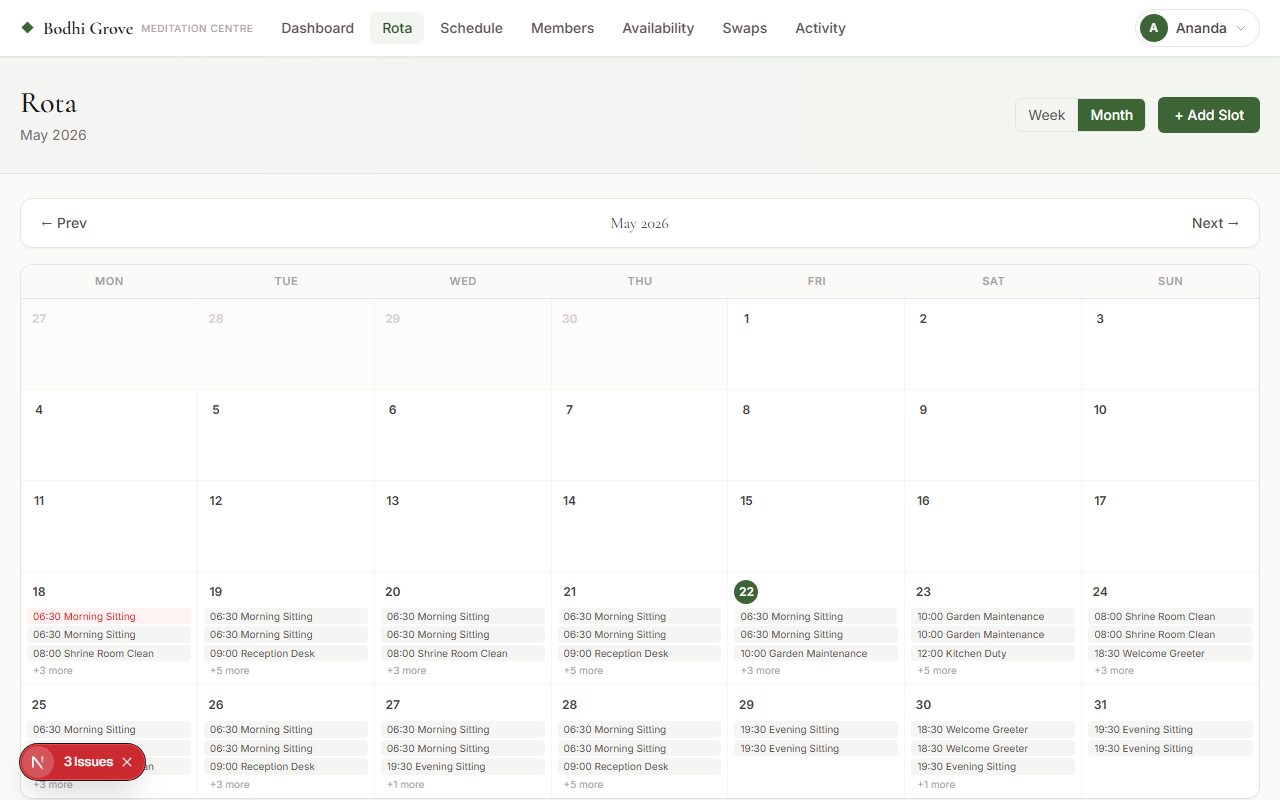
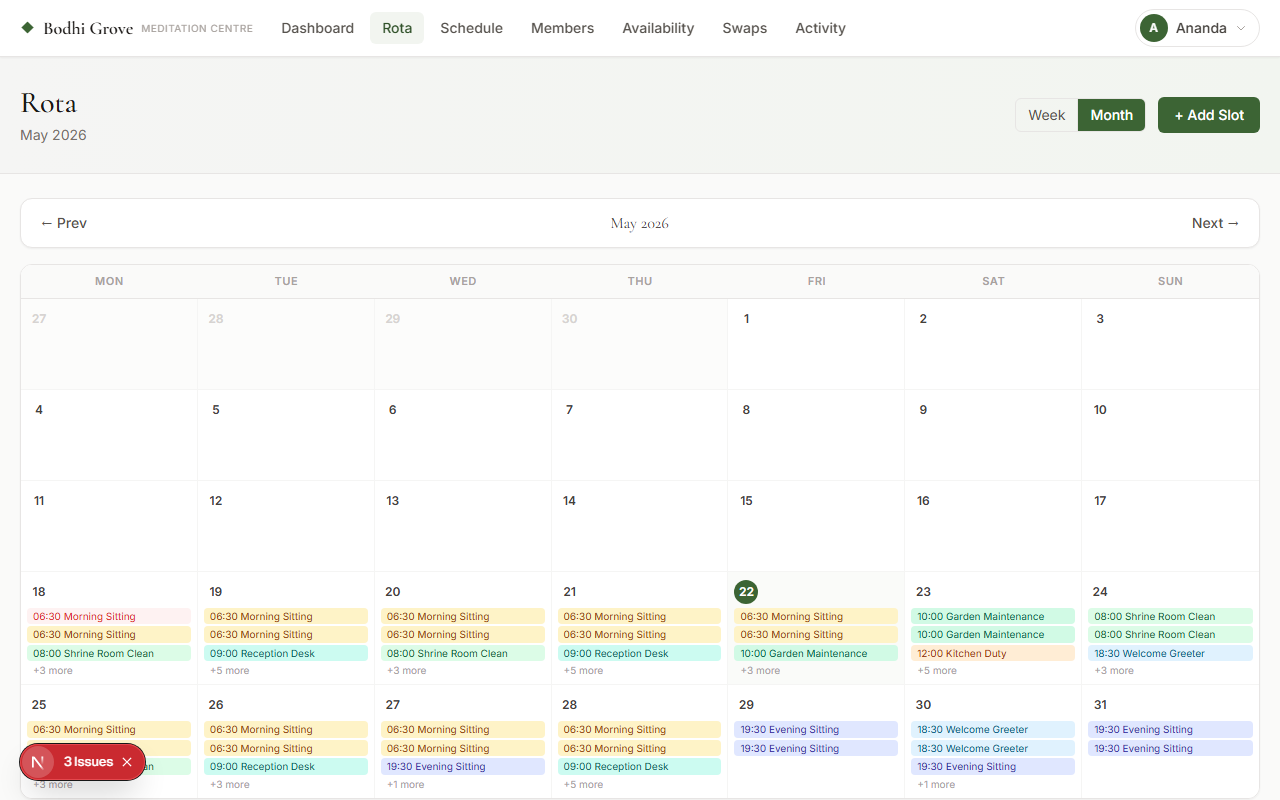
Better calendar UI and mobile improvements
Weekly rota:
- Colour-code slot cards by duty type via a 3px left-border accent
  (amber=Morning, indigo=Evening, teal=Reception, orange=Kitchen,
  green=Shrine Clean, emerald=Garden, sky=Welcome Greeter)
- Highlight the current day column header and background in sage
- Add a "Today" quick-nav link under the week label when browsing a
  past/future week
- Hide "Export .ics" label text on xs screens (icon still visible)

Monthly rota:
- Wrap the 7-column grid in overflow-x-auto with min-w-[560px] so the
  calendar scrolls horizontally on mobile rather than overflowing
- Apply same duty-type colour pills so colour coding is consistent
  across both views
- Highlight today's cell with a sage background tint
- Expand legend to show Morning/Evening colour swatches; hide click hint
  on xs screens

Shared:
- New src/lib/duty-colors.ts with dutyBorder() and dutyPill() helpers
  used by both the weekly grid and monthly calendar

diff --git a/src/app/(app)/rota/month/page.tsx b/src/app/(app)/rota/month/page.tsx
@@ -6,6 +6,7 @@ import {
   getMonthStart, addMonths, addDays,
   getWeekStart, fmtMonthYear, fmtTime,
 } from '@/lib/utils'
+import { dutyPill } from '@/lib/duty-colors'
 
 export const metadata: Metadata = { title: 'Rota – Month' }
 
@@ -110,83 +111,93 @@ export default async function MonthRotaPage({
           </Link>
         </div>
 
-        {/* Calendar */}
-        <div className="bg-white border border-stone-200 rounded-xl shadow-sm overflow-hidden">
-          {/* Day headers */}
-          <div className="grid grid-cols-7 border-b border-stone-200 bg-stone-50">
-            {DAY_HEADERS.map(d => (
-              <div key={d} className="text-center text-[11px] font-semibold uppercase tracking-wider text-stone-400 py-2">
-                {d}
+        {/* Calendar — scrollable on mobile */}
+        <div className="overflow-x-auto rounded-xl border border-stone-200 shadow-sm">
+          <div className="min-w-[560px] bg-white overflow-hidden">
+            {/* Day headers */}
+            <div className="grid grid-cols-7 border-b border-stone-200 bg-stone-50">
+              {DAY_HEADERS.map(d => (
+                <div key={d} className="text-center text-[11px] font-semibold uppercase tracking-wider text-stone-400 py-2">
+                  {d}
+                </div>
+              ))}
+            </div>
+
+            {/* Weeks */}
+            {weeks.map((week, wi) => (
+              <div key={wi} className={`grid grid-cols-7 ${wi < weeks.length - 1 ? 'border-b border-stone-100' : ''}`}>
+                {week.map(date => {
+                  const inMonth  = date >= monthStart && date <= monthEnd
+                  const isToday  = date === today
+                  const daySlots = slotsByDate.get(date) ?? []
+                  const weekLink = `/rota?week=${getWeekStart(date)}`
+
+                  return (
+                    <div
+                      key={date}
+                      className={`min-h-[90px] p-1.5 border-r border-stone-100 last:border-r-0 ${
+                        isToday ? 'bg-sage-50/40' : !inMonth ? 'bg-stone-50/60' : ''
+                      }`}
+                    >
+                      <Link href={weekLink}>
+                        <span className={`inline-flex items-center justify-center w-6 h-6 text-xs font-semibold rounded-full mb-1 transition-colors ${
+                          isToday
+                            ? 'bg-sage-600 text-white'
+                            : inMonth
+                            ? 'text-stone-700 hover:bg-stone-100'
+                            : 'text-stone-300'
+                        }`}>
+                          {parseInt(date.slice(8), 10)}
+                        </span>
+                      </Link>
+
+                      <div className="space-y-0.5">
+                        {daySlots.slice(0, 3).map(slot => {
+                          const filled = (signups ?? []).filter(s => s.slot_id === slot.id).length >= slot.max_volunteers
+                          const mine   = mySignupSlotIds.has(slot.id)
+                          return (
+                            <Link
+                              key={slot.id}
+                              href={weekLink}
+                              className={`block text-[10px] px-1.5 py-0.5 rounded truncate leading-tight hover:opacity-80 transition-opacity ${
+                                mine   ? 'bg-sage-100 text-sage-800' :
+                                filled ? 'bg-red-50 text-red-600' :
+                                         dutyPill(slot.duty)
+                              }`}
+                            >
+                              {fmtTime(slot.start_time)} {slot.duty}
+                            </Link>
+                          )
+                        })}
+                        {daySlots.length > 3 && (
+                          <Link href={weekLink} className="block text-[10px] text-stone-400 px-1.5 hover:text-stone-600">
+                            +{daySlots.length - 3} more
+                          </Link>
+                        )}
+                      </div>
+                    </div>
+                  )
+                })}
               </div>
             ))}
           </div>
-
-          {/* Weeks */}
-          {weeks.map((week, wi) => (
-            <div key={wi} className={`grid grid-cols-7 ${wi < weeks.length - 1 ? 'border-b border-stone-100' : ''}`}>
-              {week.map(date => {
-                const inMonth  = date >= monthStart && date <= monthEnd
-                const isToday  = date === today
-                const daySlots = slotsByDate.get(date) ?? []
-                const weekLink = `/rota?week=${getWeekStart(date)}`
-
-                return (
-                  <div
-                    key={date}
-                    className={`min-h-[90px] p-1.5 border-r border-stone-100 last:border-r-0 ${!inMonth ? 'bg-stone-50/60' : ''}`}
-                  >
-                    <Link href={weekLink}>
-                      <span className={`inline-flex items-center justify-center w-6 h-6 text-xs font-semibold rounded-full mb-1 transition-colors ${
-                        isToday
-                          ? 'bg-sage-600 text-white'
-                          : inMonth
-                          ? 'text-stone-700 hover:bg-stone-100'
-                          : 'text-stone-300'
-                      }`}>
-                        {parseInt(date.slice(8), 10)}
-                      </span>
-                    </Link>
-
-                    <div className="space-y-0.5">
-                      {daySlots.slice(0, 3).map(slot => {
-                        const filled = (signups ?? []).filter(s => s.slot_id === slot.id).length >= slot.max_volunteers
-                        const mine   = mySignupSlotIds.has(slot.id)
-                        return (
-                          <Link
-                            key={slot.id}
-                            href={weekLink}
-                            className={`block text-[10px] px-1.5 py-0.5 rounded truncate leading-tight hover:opacity-80 transition-opacity ${
-                              mine   ? 'bg-sage-100 text-sage-800' :
-                              filled ? 'bg-red-50 text-red-600' :
-                                       'bg-stone-100 text-stone-600'
-                            }`}
-                          >
-                            {fmtTime(slot.start_time)} {slot.duty}
-                          </Link>
-                        )
-                      })}
-                      {daySlots.length > 3 && (
-                        <Link href={weekLink} className="block text-[10px] text-stone-400 px-1.5 hover:text-stone-600">
-                          +{daySlots.length - 3} more
-                        </Link>
-                      )}
-                    </div>
-                  </div>
-                )
-              })}
-            </div>
-          ))}
         </div>
 
         {/* Legend */}
-        <div className="flex gap-5 text-xs text-stone-400 pb-2">
+        <div className="flex flex-wrap gap-x-5 gap-y-1.5 text-xs text-stone-400 pb-2">
           <span className="flex items-center gap-1.5">
             <span className="w-2.5 h-2.5 rounded-full bg-sage-500 inline-block" /> My slot
           </span>
           <span className="flex items-center gap-1.5">
             <span className="w-2.5 h-2.5 rounded-full bg-red-400 inline-block" /> Full
           </span>
-          <span className="text-stone-300">Click any day to view that week</span>
+          <span className="flex items-center gap-1.5">
+            <span className="w-2.5 h-2.5 rounded-full bg-amber-300 inline-block" /> Morning
+          </span>
+          <span className="flex items-center gap-1.5">
+            <span className="w-2.5 h-2.5 rounded-full bg-indigo-300 inline-block" /> Evening
+          </span>
+          <span className="text-stone-300 hidden sm:inline">Click any day to view that week</span>
         </div>
       </div>
     </div>

diff --git a/src/components/rota/rota-grid.tsx b/src/components/rota/rota-grid.tsx
@@ -4,6 +4,7 @@ import { useActionState, useState } from 'react'
 import Link from 'next/link'
 import { signUpForSlot, cancelSignup, requestSwap } from '@/lib/actions'
 import { fmtTime } from '@/lib/utils'
+import { dutyBorder } from '@/lib/duty-colors'
 import type { ActionResult } from '@/lib/types'
 
 interface SlotData {
@@ -29,36 +30,49 @@ interface DayData {
 }
 
 interface Props {
-  days:       DayData[]
-  weekStart:  string
-  isManager:  boolean
-  canSignUp:  boolean
-  userId:     string
+  days:      DayData[]
+  weekStart: string
+  isManager: boolean
+  canSignUp: boolean
+  userId:    string
+  today:     string
 }
 
-export default function RotaGrid({ days, weekStart, isManager, canSignUp }: Props) {
+export default function RotaGrid({ days, weekStart, isManager, canSignUp, today }: Props) {
   return (
     <div className="grid grid-cols-2 sm:grid-cols-3 lg:grid-cols-7 gap-2">
-      {days.map(day => (
-        <div key={day.date} className="flex flex-col">
-          <div className="text-center text-[11px] font-semibold uppercase tracking-wider text-stone-500 bg-stone-100 border border-stone-200 rounded-t-lg px-2 py-1.5">
-            {day.label.split(' ').slice(0, 1)} <span className="text-stone-400 font-normal">{day.label.split(' ').slice(1).join(' ')}</span>
+      {days.map(day => {
+        const isToday = day.date === today
+        return (
+          <div key={day.date} className="flex flex-col">
+            <div className={`text-center text-[11px] font-semibold uppercase tracking-wider border rounded-t-lg px-2 py-1.5 ${
+              isToday
+                ? 'bg-sage-600 text-white border-sage-500'
+                : 'text-stone-500 bg-stone-100 border-stone-200'
+            }`}>
+              {day.label.split(' ').slice(0, 1)}{' '}
+              <span className={isToday ? 'text-sage-100 font-normal' : 'text-stone-400 font-normal'}>
+                {day.label.split(' ').slice(1).join(' ')}
+              </span>
+            </div>
+            <div className={`flex-1 border border-t-0 rounded-b-lg p-1.5 space-y-1.5 min-h-[80px] ${
+              isToday ? 'border-sage-300 bg-sage-50/30' : 'border-stone-200 bg-white'
+            }`}>
+              {day.slots.length === 0 ? (
+                <p className="text-[11px] text-stone-300 text-center py-3">—</p>
+              ) : day.slots.map(slot => (
+                <SlotCard
+                  key={slot.id}
+                  slot={slot}
+                  weekStart={weekStart}
+                  isManager={isManager}
+                  canSignUp={canSignUp}
+                />
+              ))}
+            </div>
           </div>
-          <div className="flex-1 border border-t-0 border-stone-200 rounded-b-lg bg-white p-1.5 space-y-1.5 min-h-[80px]">
-            {day.slots.length === 0 ? (
-              <p className="text-[11px] text-stone-300 text-center py-3">—</p>
-            ) : day.slots.map(slot => (
-              <SlotCard
-                key={slot.id}
-                slot={slot}
-                weekStart={weekStart}
-                isManager={isManager}
-                canSignUp={canSignUp}
-              />
-            ))}
-          </div>
-        </div>
-      ))}
+        )
+      })}
     </div>
   )
 }
@@ -81,7 +95,8 @@ function SlotCard({
   const [swapState,   swapAction,   swapPending]   = useActionState<ActionResult | null, FormData>(requestSwap,   null)
 
   const isCancelled = slot.status === 'cancelled'
-  const borderClass = isCancelled
+
+  const statusBg = isCancelled
     ? 'border-stone-200 bg-stone-100 opacity-60'
     : slot.mySignup
     ? 'border-sage-400 bg-sage-50'
@@ -91,10 +106,11 @@ function SlotCard({
     ? 'border-amber-200 bg-amber-50/50'
     : 'border-stone-200 bg-stone-50'
 
+  const leftAccent = isCancelled ? 'border-l-stone-300' : dutyBorder(slot.duty)
   const swapSubmitted = swapState && 'success' in swapState
 
   return (
-    <div className={`border rounded-md p-1.5 text-[11px] transition-colors ${borderClass}`}>
+    <div className={`border-l-[3px] ${leftAccent} border rounded-md p-1.5 text-[11px] transition-colors ${statusBg}`}>
       <div className="flex items-center justify-between mb-0.5">
         <span className="text-stone-400 font-medium">{fmtTime(slot.start_time)}–{fmtTime(slot.end_time)}</span>
         <span className={`font-semibold px-1 py-0.5 rounded text-[10px] ${
@@ -151,7 +167,6 @@ function SlotCard({
                 </button>
               </form>
 
-              {/* Swap request */}
               {!slot.swapPending && !swapSubmitted && !showSwapForm && (
                 <button
                   onClick={() => setShowSwapForm(true)}
@@ -228,7 +243,6 @@ function SlotCard({
         </form>
       )}
 
-      {/* Inline errors */}
       {signupState && 'error' in signupState && (
         <p className="text-red-600 text-[10px] mt-1">{signupState.error}</p>
       )}

diff --git a/src/lib/duty-colors.ts b/src/lib/duty-colors.ts
@@ -1,0 +1,29 @@
+export const DUTY_BORDER: Record<string, string> = {
+  'Morning Sitting':    'border-l-amber-400',
+  'Evening Sitting':    'border-l-indigo-400',
+  'Reception Desk':     'border-l-teal-500',
+  'Kitchen Duty':       'border-l-orange-400',
+  'Shrine Room Clean':  'border-l-green-500',
+  'Garden Maintenance': 'border-l-emerald-500',
+  'Welcome Greeter':    'border-l-sky-400',
+  'Other':              'border-l-stone-300',
+}
+
+export const DUTY_PILL: Record<string, string> = {
+  'Morning Sitting':    'bg-amber-100 text-amber-800',
+  'Evening Sitting':    'bg-indigo-100 text-indigo-800',
+  'Reception Desk':     'bg-teal-100 text-teal-800',
+  'Kitchen Duty':       'bg-orange-100 text-orange-800',
+  'Shrine Room Clean':  'bg-green-100 text-green-800',
+  'Garden Maintenance': 'bg-emerald-100 text-emerald-800',
+  'Welcome Greeter':    'bg-sky-100 text-sky-800',
+  'Other':              'bg-stone-100 text-stone-700',
+}
+
+export function dutyBorder(duty: string): string {
+  return DUTY_BORDER[duty] ?? 'border-l-stone-300'
+}
+
+export function dutyPill(duty: string): string {
+  return DUTY_PILL[duty] ?? 'bg-stone-100 text-stone-700'
+}

diff --git a/src/app/(app)/rota/page.tsx b/src/app/(app)/rota/page.tsx
@@ -28,10 +28,12 @@ export default async function RotaPage({
     ? getWeekStart(rawWeek)
     : getWeekStart(new Date())
 
-  const weekEnd   = addDays(weekStart, 6)
-  const prevWeek  = addDays(weekStart, -7)
-  const nextWeek  = addDays(weekStart, 7)
-  const weekLabel = `${fmtDateLong(weekStart)} – ${fmtDateLong(weekEnd)}`
+  const weekEnd     = addDays(weekStart, 6)
+  const prevWeek    = addDays(weekStart, -7)
+  const nextWeek    = addDays(weekStart, 7)
+  const weekLabel   = `${fmtDateLong(weekStart)} – ${fmtDateLong(weekEnd)}`
+  const today       = new Date().toISOString().slice(0, 10)
+  const isThisWeek  = weekStart === getWeekStart(new Date())
 
   const [{ data: slots }, { data: signups }, { data: mySwaps }] = await Promise.all([
     supabase.from('slots').select('*').gte('date', weekStart).lte('date', weekEnd).order('start_time'),
@@ -87,7 +89,7 @@ export default async function RotaPage({
               <svg className="w-4 h-4" fill="none" stroke="currentColor" viewBox="0 0 24 24">
                 <path strokeLinecap="round" strokeLinejoin="round" strokeWidth={1.5} d="M8 7H5a2 2 0 00-2 2v9a2 2 0 002 2h14a2 2 0 002-2V9a2 2 0 00-2-2h-3m-1 4l-3 3m0 0l-3-3m3 3V4" />
               </svg>
-              Export .ics
+              <span className="hidden sm:inline">Export .ics</span>
             </Link>
             {isManager && (
               <Link
@@ -110,7 +112,14 @@ export default async function RotaPage({
           >
             ← Prev
           </Link>
-          <span className="font-serif text-base text-stone-700">{weekLabel}</span>
+          <div className="flex flex-col items-center gap-1">
+            <span className="font-serif text-base text-stone-700">{weekLabel}</span>
+            {!isThisWeek && (
+              <Link href="/rota" className="text-xs text-sage-600 hover:text-sage-800 font-medium">
+                Today
+              </Link>
+            )}
+          </div>
           <Link
             href={`/rota?week=${nextWeek}`}
             className="text-sm font-medium text-stone-600 hover:text-stone-900 flex items-center gap-1"
@@ -126,6 +135,7 @@ export default async function RotaPage({
           isManager={isManager}
           canSignUp={canSignUp}
           userId={user.id}
+          today={today}
         />
 
         {/* Legend */}